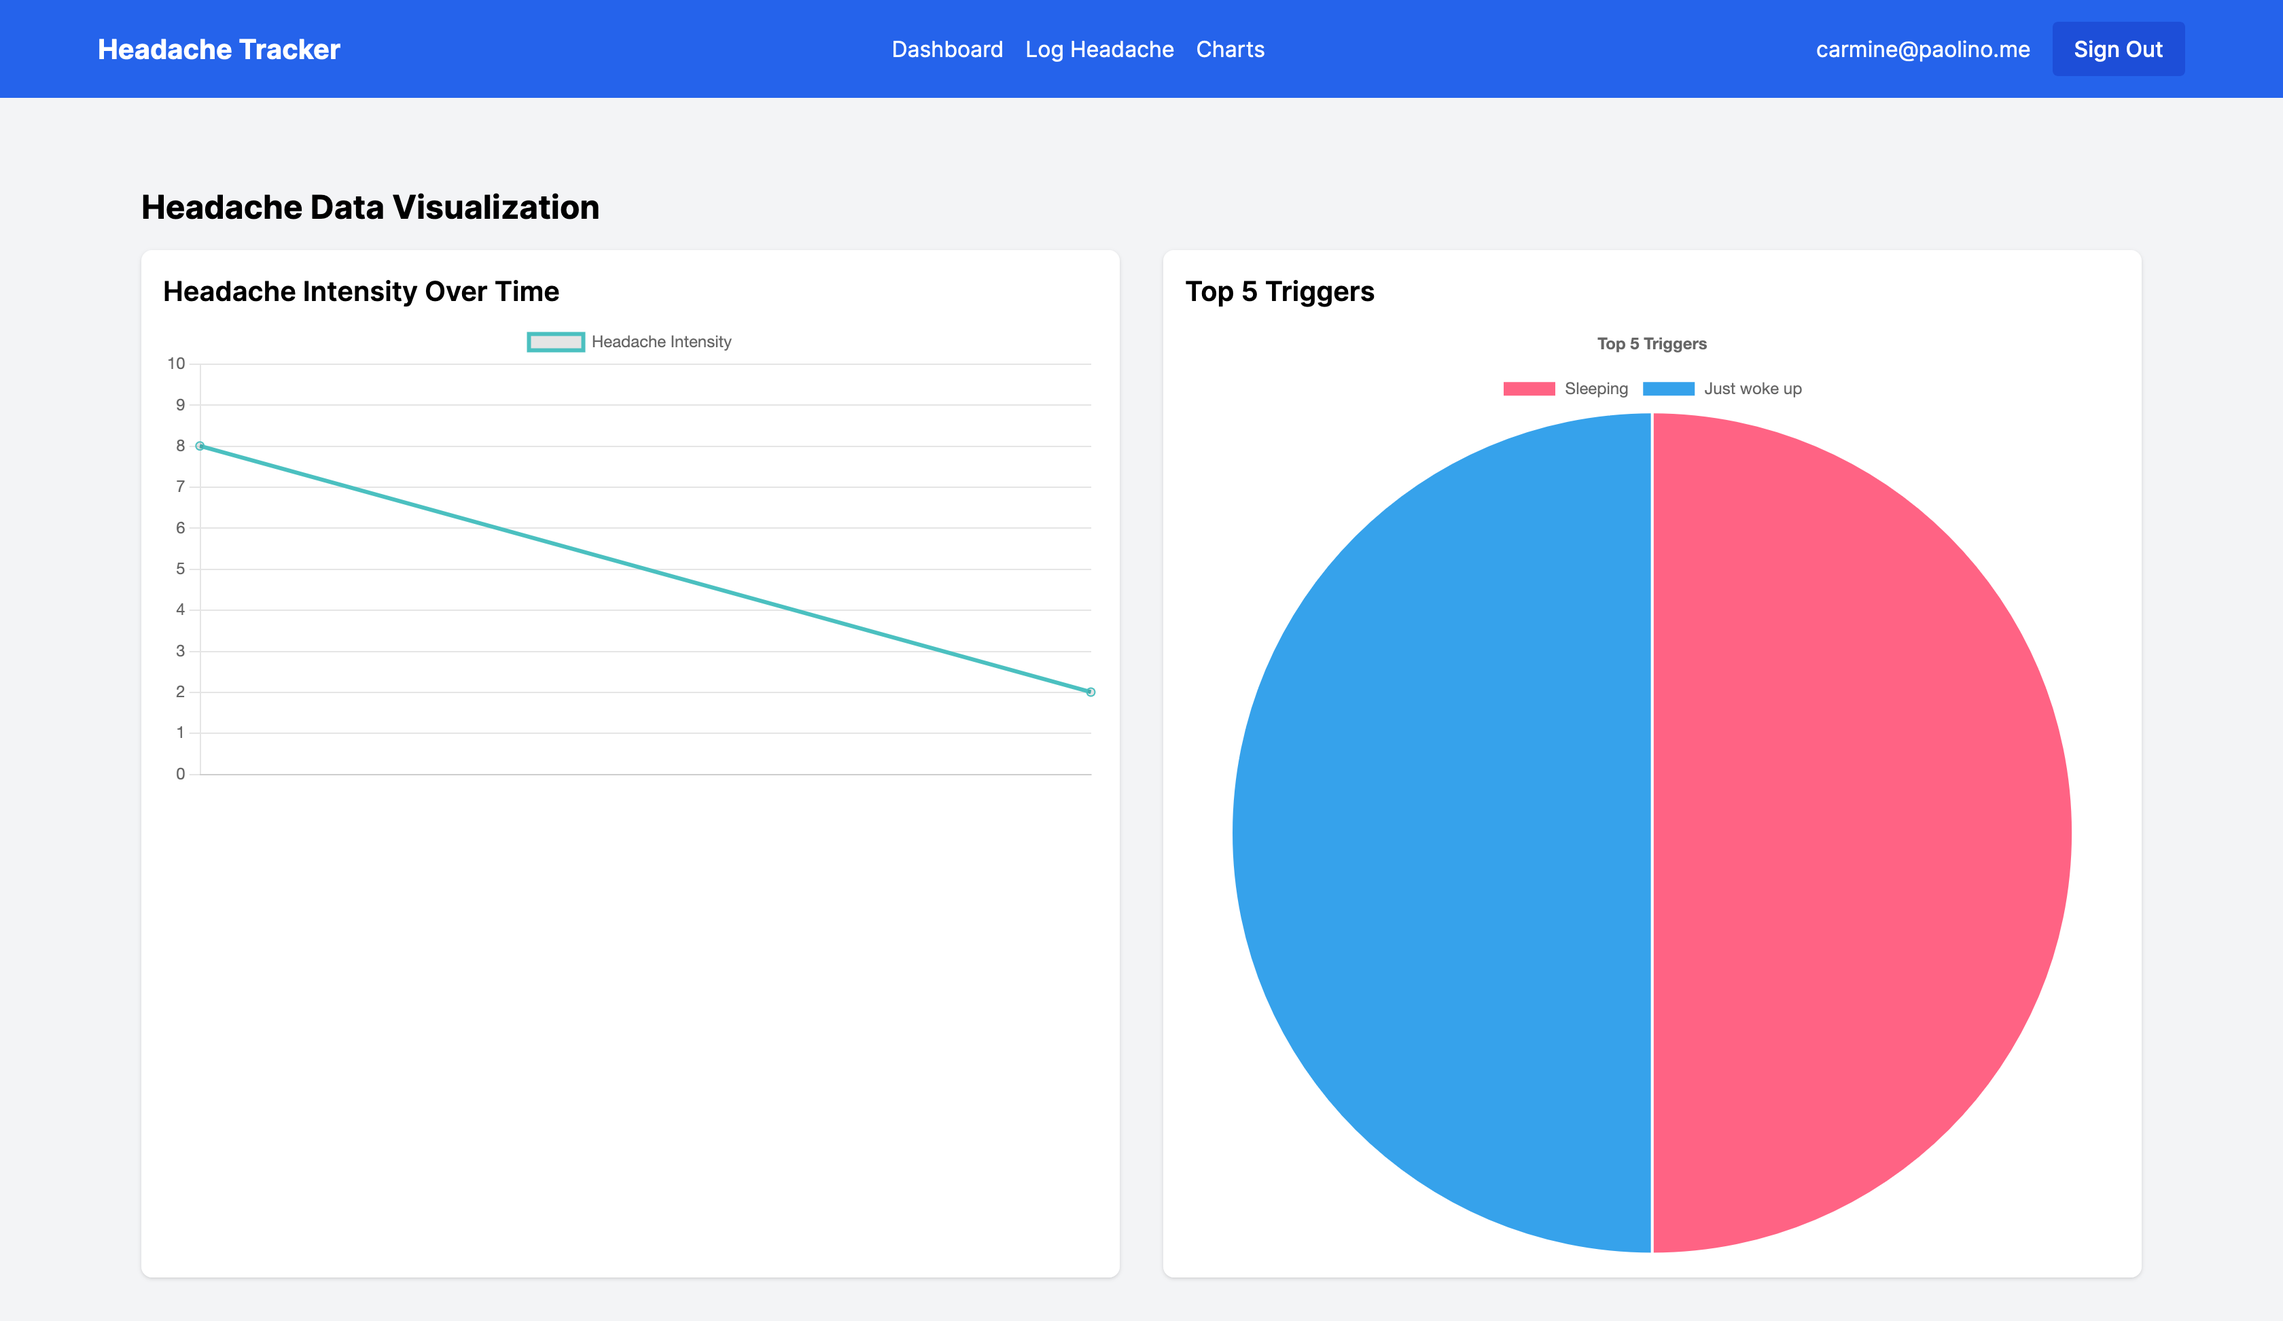
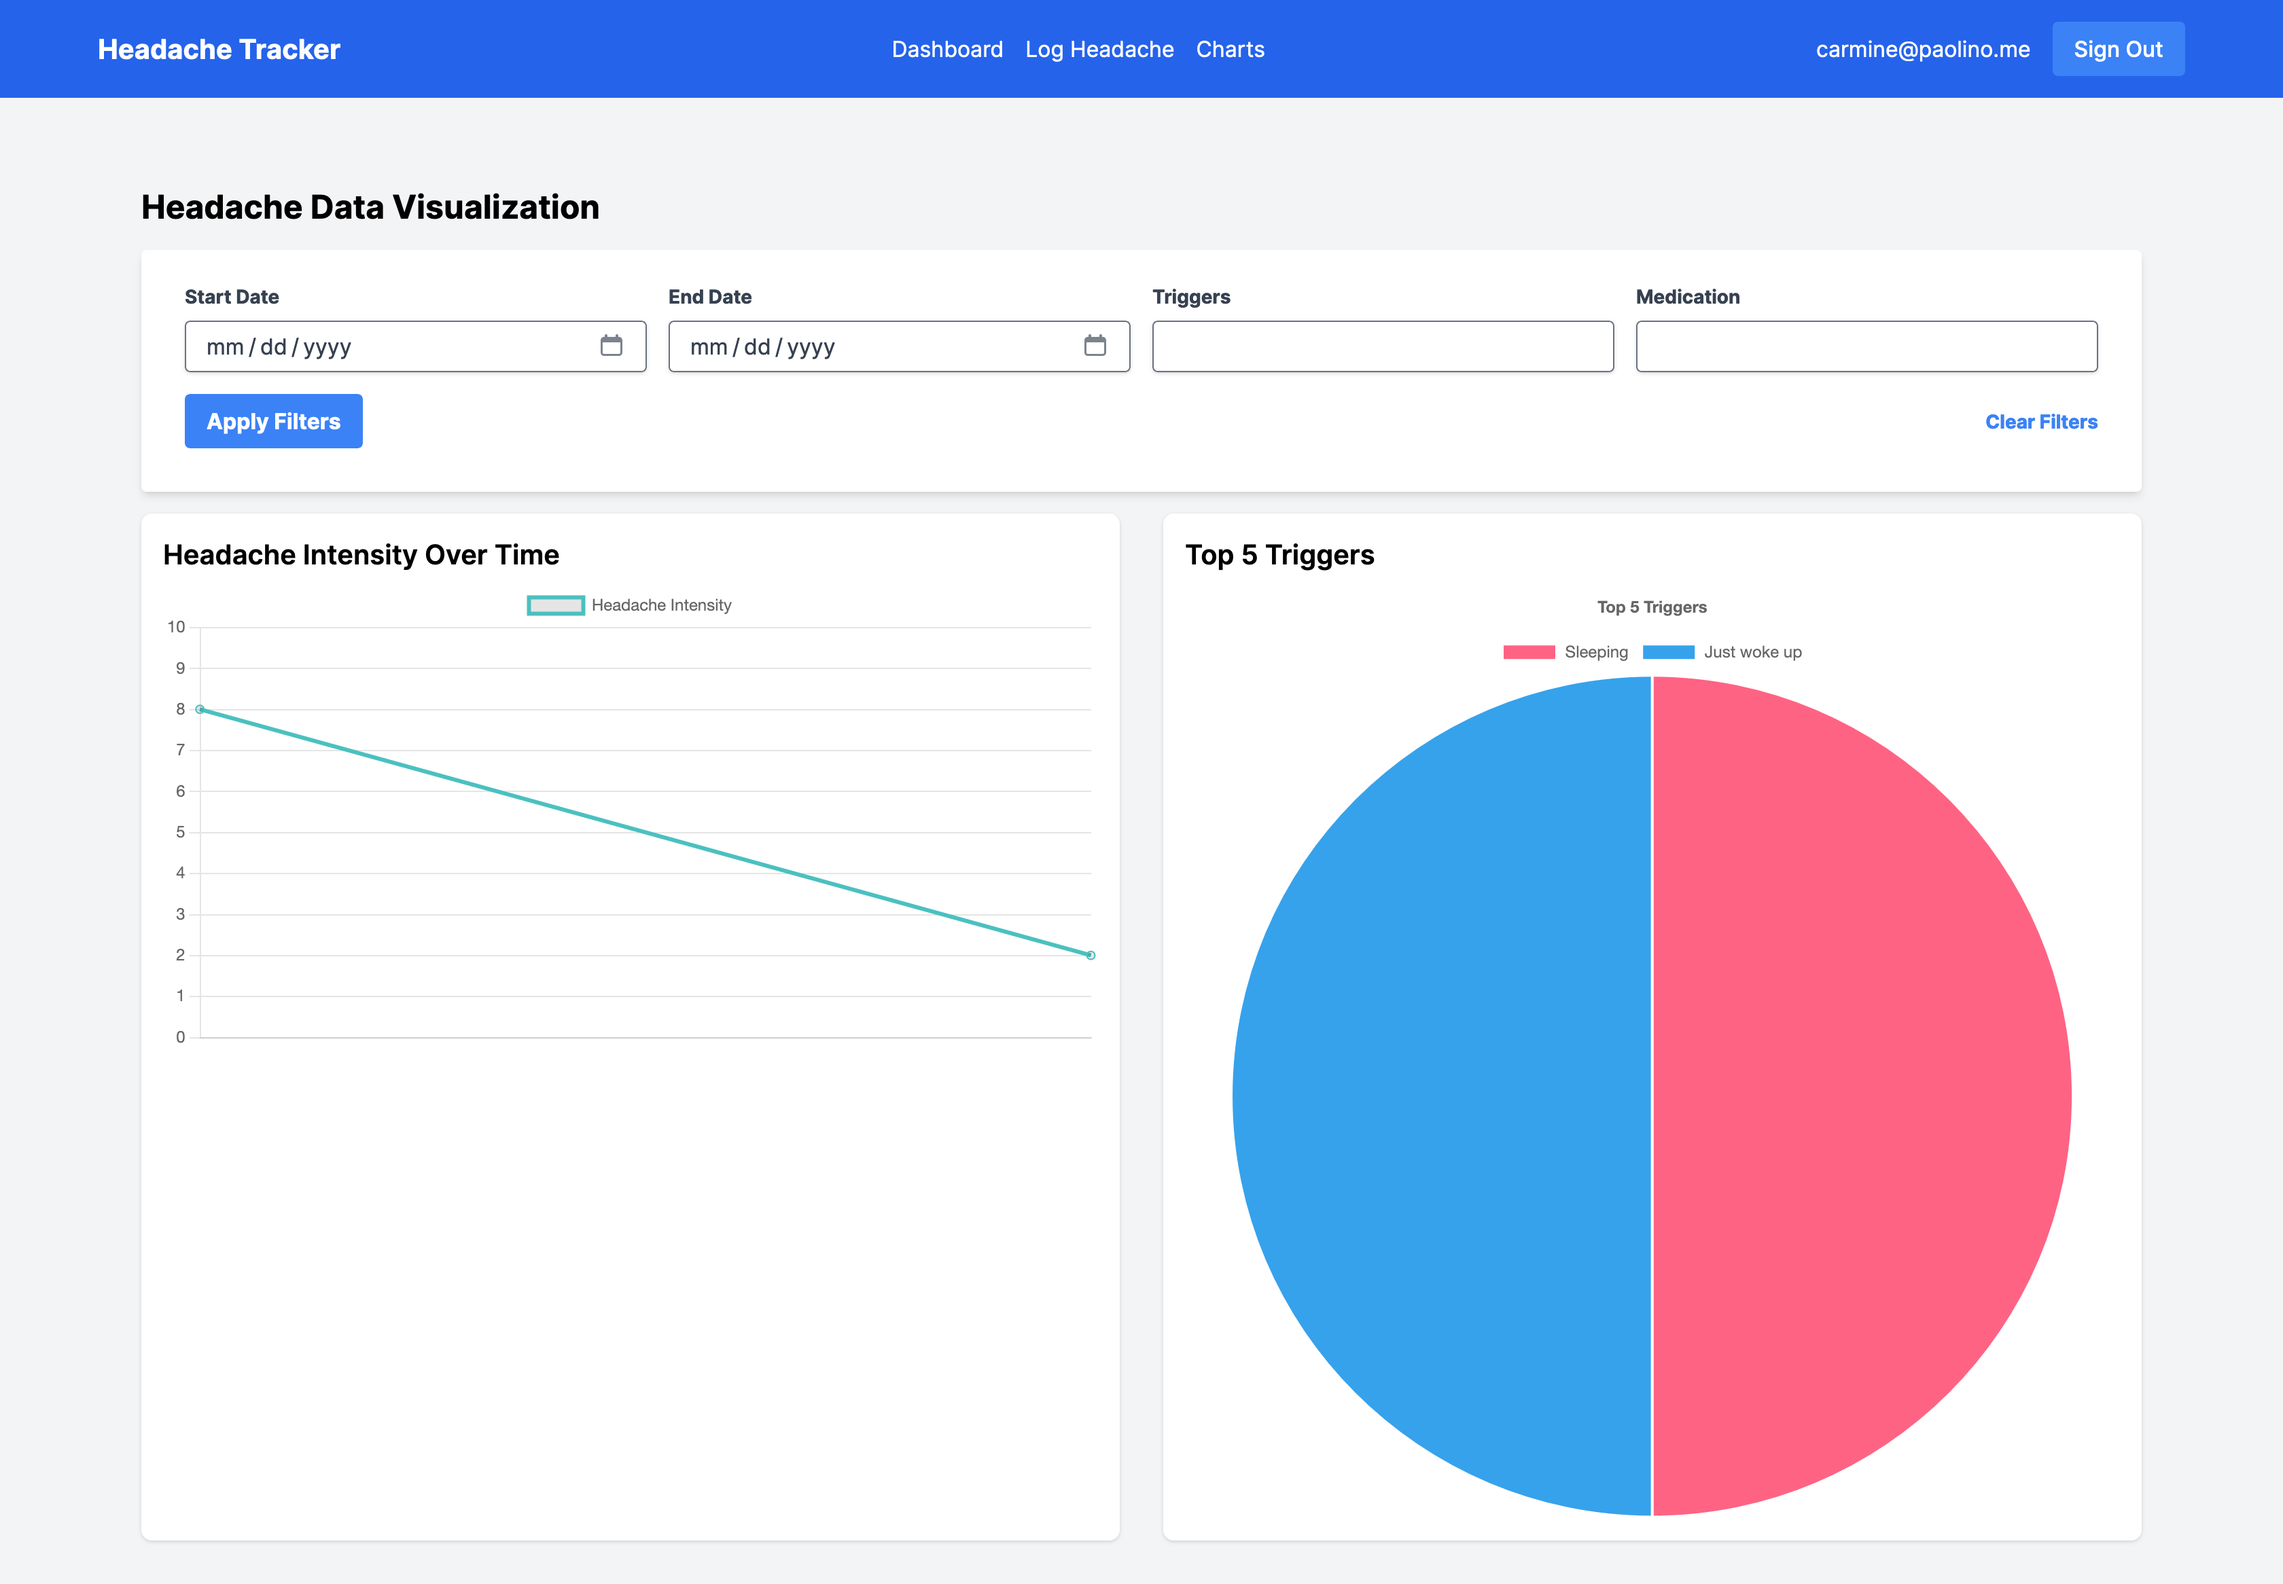
filters!

diff --git a/app/javascript/charts.js b/app/javascript/charts.js
@@ -90,4 +90,37 @@ export function initializeCharts(intensityData, triggerData) {
       });
     }
   }
+  if (medicationData && Object.keys(medicationData).length > 0) {
+    const medicationCtx = document.getElementById('medicationChart');
+    if (medicationCtx) {
+      new Chart(medicationCtx, {
+        type: 'pie',
+        data: {
+          labels: Object.keys(medicationData),
+          datasets: [{
+            data: Object.values(medicationData),
+            backgroundColor: [
+              'rgb(255, 99, 132)',
+              'rgb(54, 162, 235)',
+              'rgb(255, 205, 86)',
+              'rgb(75, 192, 192)',
+              'rgb(153, 102, 255)'
+            ]
+          }]
+        },
+        options: {
+          responsive: true,
+          plugins: {
+            legend: {
+              position: 'top',
+            },
+            title: {
+              display: true,
+              text: 'Top 5 Medications'
+            }
+          }
+        }
+      });
+    }
+  }
 }

diff --git a/app/controllers/headache_logs_controller.rb b/app/controllers/headache_logs_controller.rb
@@ -6,6 +6,7 @@ class HeadacheLogsController < ApplicationController
   # GET /headache_logs or /headache_logs.json
   def index
     @headache_logs = current_user.headache_logs.order(start_time: :desc)
+    apply_filters
   end
 
   # GET /headache_logs/1 or /headache_logs/1.json
@@ -66,17 +67,32 @@ class HeadacheLogsController < ApplicationController
   end
 
   private
-    # Use callbacks to share common setup or constraints between actions.
-    def set_headache_log
-      @headache_log = current_user.headache_logs.find(params[:id])
-    end
+  # Use callbacks to share common setup or constraints between actions.
+  def set_headache_log
+    @headache_log = current_user.headache_logs.find(params[:id])
+  end
 
-    # Only allow a list of trusted parameters through.
-    def headache_log_params
-      params.require(:headache_log).permit(:start_time, :end_time, :intensity, :notes, :medication, :triggers)
-    end
+  # Only allow a list of trusted parameters through.
+  def headache_log_params
+    params.require(:headache_log).permit(:start_time, :end_time, :intensity, :notes, :medication, :triggers)
+  end
 
-    def set_share_link
-      @share_link = shared_logs_url(token: current_user.share_tokens.last.token)
+  def set_share_link
+    @share_link = shared_logs_url(token: current_user.share_tokens.last.token)
+  end
+
+  def apply_filters
+    if params[:start_date].present?
+      @headache_logs = @headache_logs.where("start_time >= ?", params[:start_date])
     end
+    if params[:end_date].present?
+      @headache_logs = @headache_logs.where("start_time <= ?", params[:end_date])
+    end
+    if params[:triggers].present?
+      @headache_logs = @headache_logs.where("triggers ILIKE ?", "%#{params[:triggers]}%")
+    end
+    if params[:medication].present?
+      @headache_logs = @headache_logs.where("medication ILIKE ?", "%#{params[:medication]}%")
+    end
+  end
 end

diff --git a/app/controllers/charts_controller.rb b/app/controllers/charts_controller.rb
@@ -1,21 +1,48 @@
 class ChartsController < ApplicationController
   def index
     @headache_logs = current_user.headache_logs.order(:start_time)
+    apply_filters
 
     @intensity_data = @headache_logs.map { |log| { x: log.start_time, y: log.intensity } }
 
     @trigger_data = process_trigger_data(@headache_logs)
+    @medication_data = process_medication_data(@headache_logs)
   end
 
   private
 
+  def apply_filters
+    if params[:start_date].present?
+      @headache_logs = @headache_logs.where("start_time >= ?", params[:start_date])
+    end
+    if params[:end_date].present?
+      @headache_logs = @headache_logs.where("start_time <= ?", params[:end_date])
+    end
+    if params[:triggers].present?
+      @headache_logs = @headache_logs.where("triggers ILIKE ?", "%#{params[:triggers]}%")
+    end
+    if params[:medication].present?
+      @headache_logs = @headache_logs.where("medication ILIKE ?", "%#{params[:medication]}%")
+    end
+  end
+
   def process_trigger_data(logs)
     trigger_counts = Hash.new(0)
     logs.each do |log|
-      triggers = log.triggers.to_s.split(",").map(&:strip)
+      triggers = log.triggers.to_s.split(',').map(&:strip)
       triggers.each { |trigger| trigger_counts[trigger] += 1 unless trigger.blank? }
     end
 
     trigger_counts.sort_by { |_, count| -count }.first(5).to_h
+  end
+
+  def process_medication_data(logs)
+    medication_counts = Hash.new(0)
+    logs.each do |log|
+      medications = log.medication.to_s.split(',').map(&:strip)
+      medications.each { |med| medication_counts[med] += 1 unless med.blank? }
+    end
+
+    medication_counts.sort_by { |_, count| -count }.first(5).to_h
   end
 end
